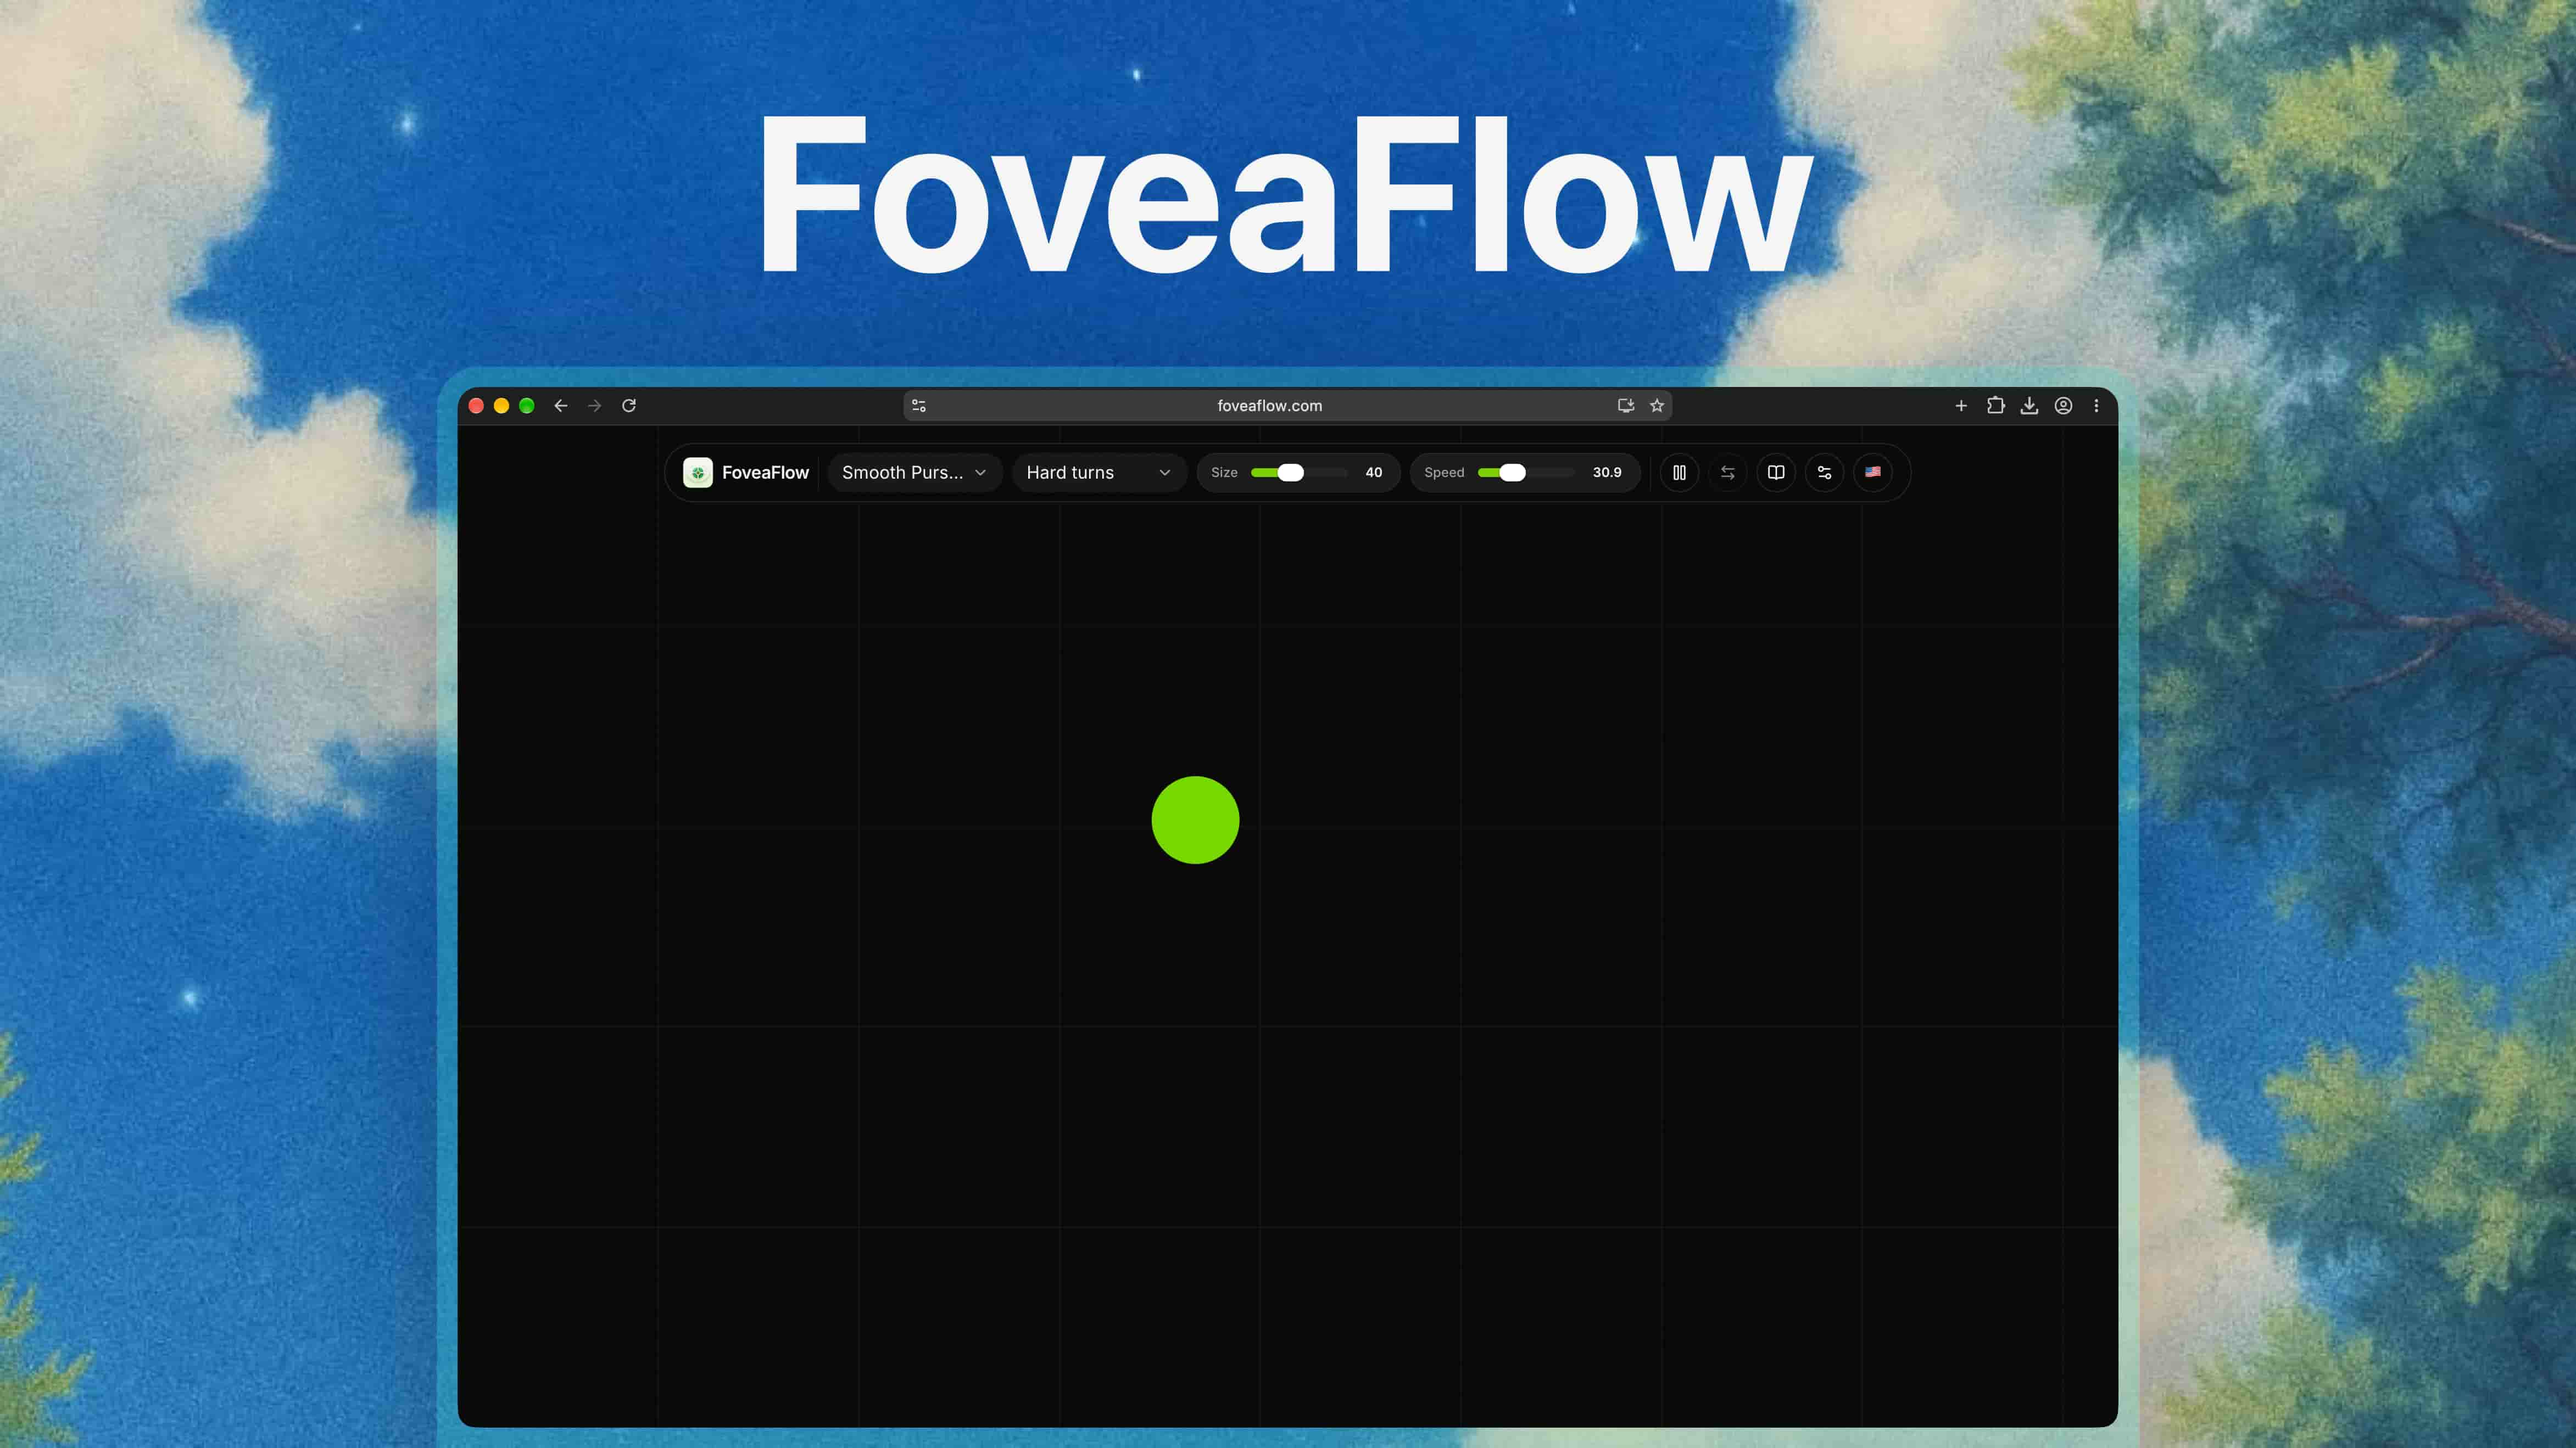
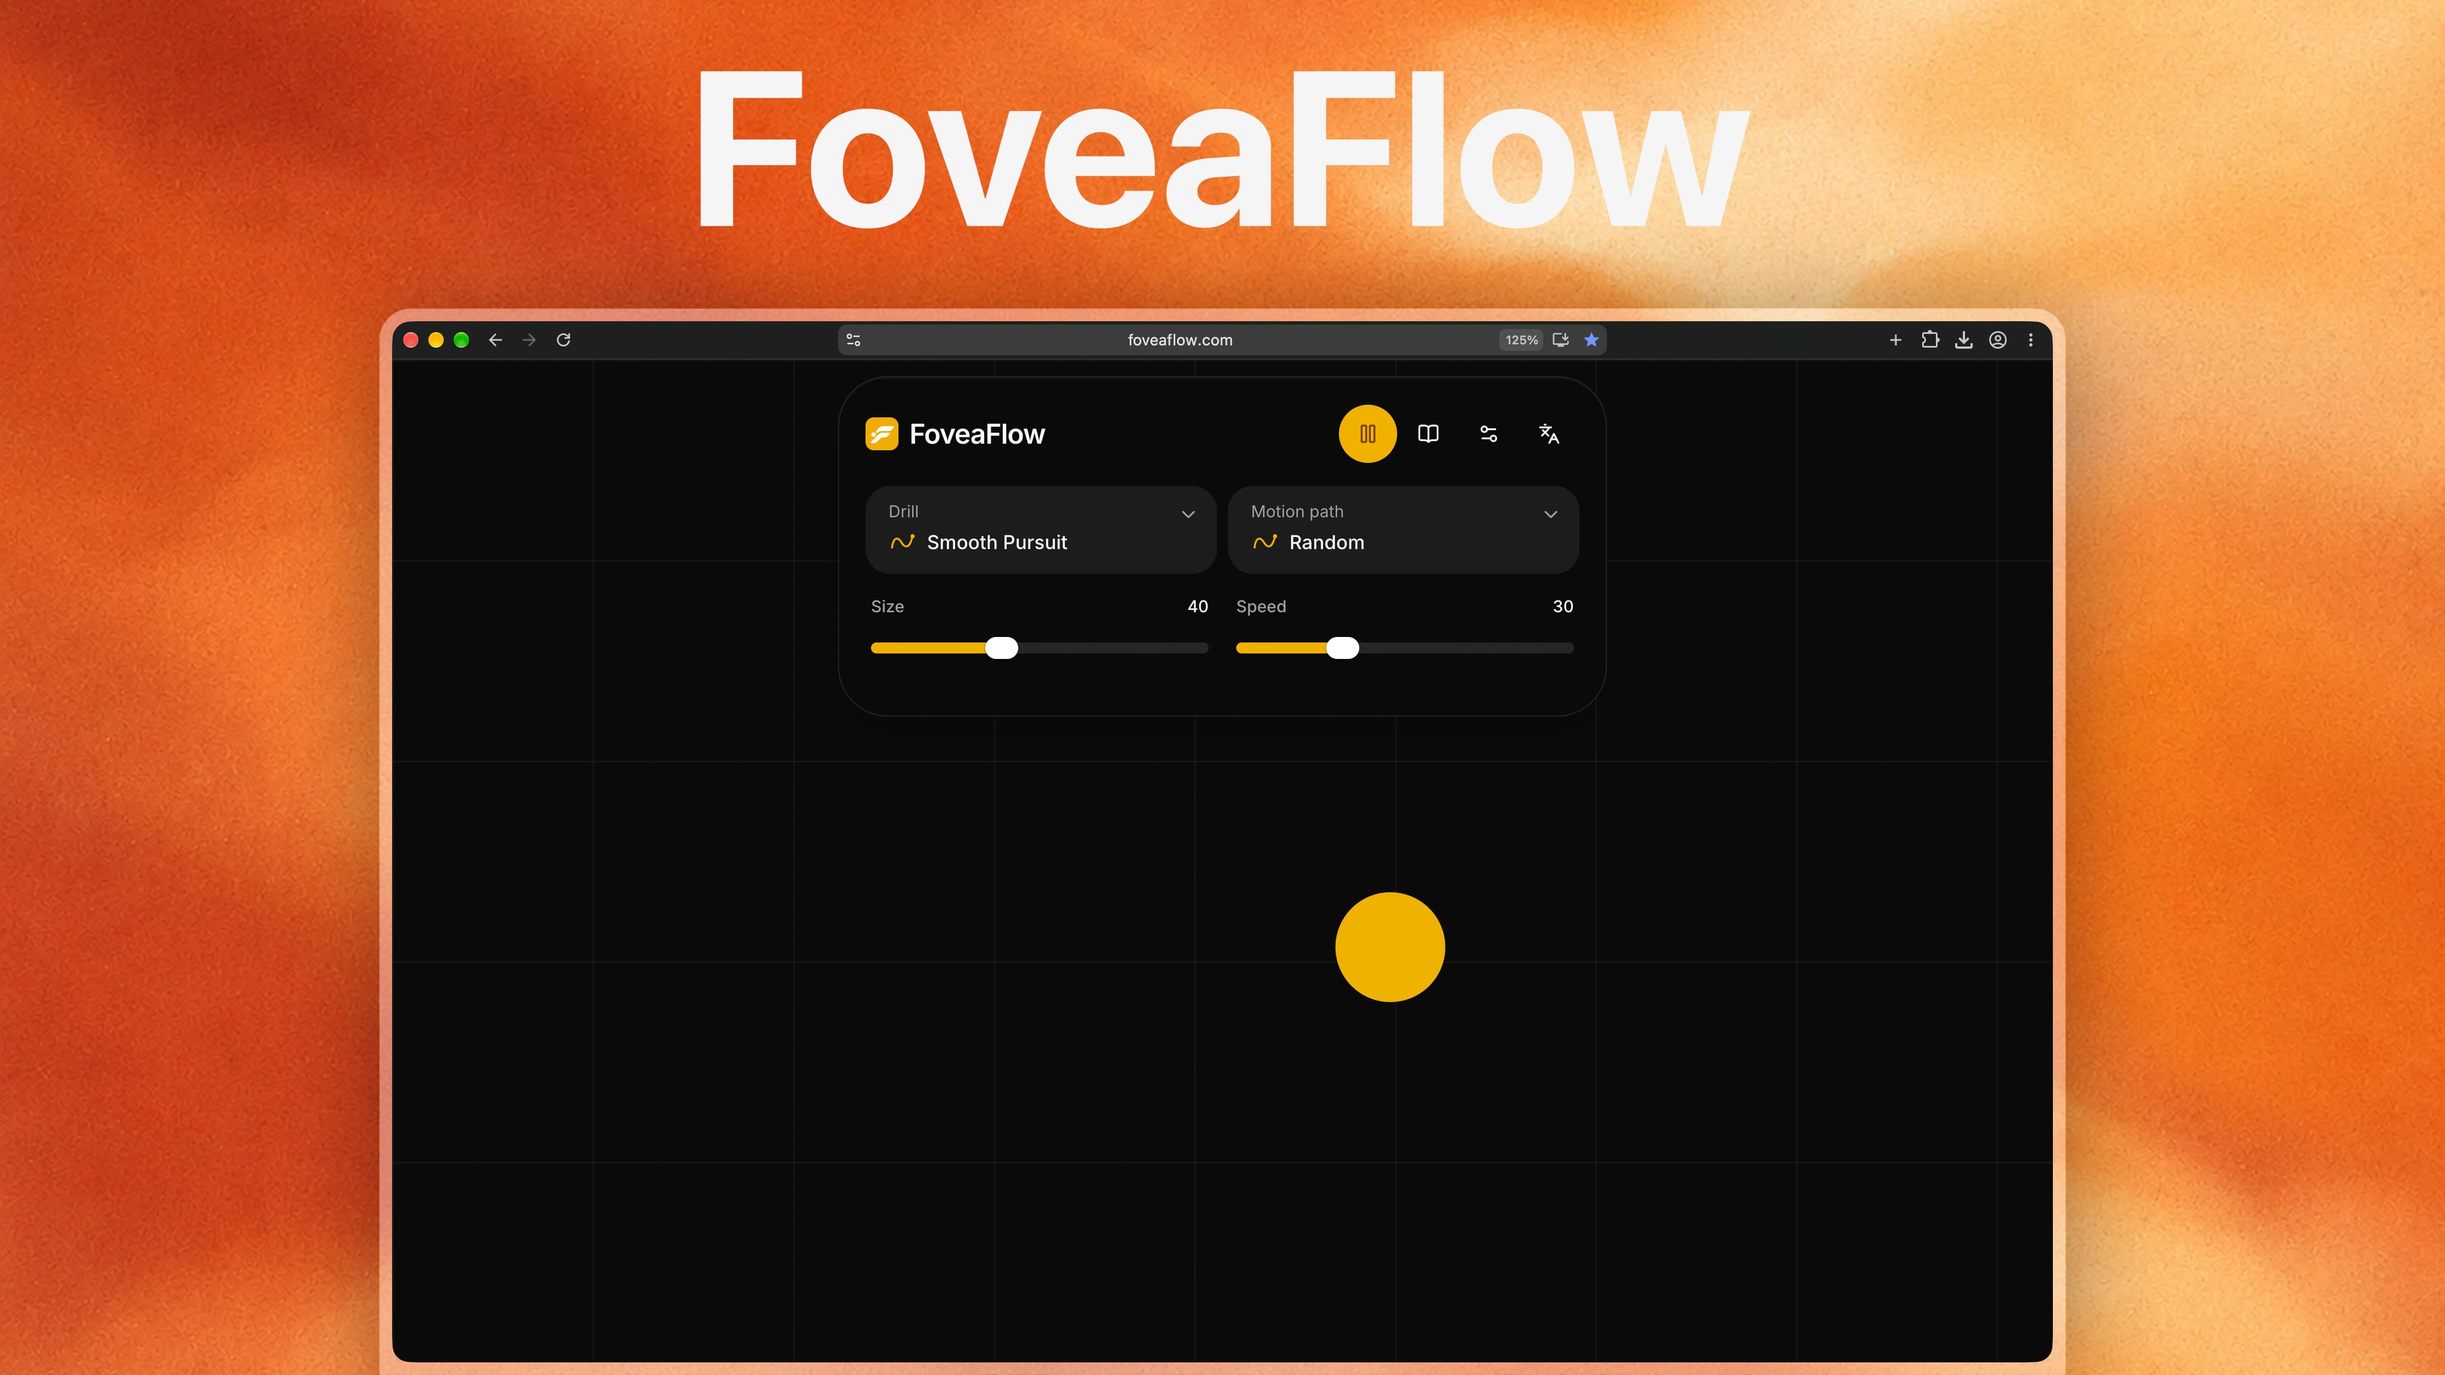
style: use theme fonts and refresh previews

diff --git a/src/styles/global.css b/src/styles/global.css
@@ -5,25 +5,10 @@
 @import "../lib/components/resize-transition.css";
 @import "@fontsource-variable/inter";
 
-@font-face {
-  font-family: "Inter";
-  src: url("../assets/fonts/Inter-latin.woff2") format("woff2");
-  font-weight: 400 800;
-  font-style: normal;
-  font-display: swap;
-  unicode-range:
-    U+0000-00FF, U+0131, U+0152-0153, U+02BB-02BC, U+02C6, U+02DA, U+02DC,
-    U+0304, U+0308, U+0329, U+2000-206F, U+20AC, U+2122, U+2191, U+2193, U+2212,
-    U+2215, U+FEFF, U+FFFD;
-}
-
 @custom-variant dark (&:is(.dark *));
 
 @theme inline {
   --font-sans: "Inter Variable", sans-serif;
-  --font-mono:
-    ui-monospace, "SFMono-Regular", "Roboto Mono", Menlo, Monaco,
-    "Liberation Mono", "DejaVu Sans Mono", "Courier New", monospace;
   --color-background: var(--background);
   --color-foreground: var(--foreground);
   --color-border: var(--border);
@@ -69,7 +54,7 @@
 
 html,
 body {
-  @apply bg-background text-foreground m-0 min-h-full min-w-full font-sans antialiased [text-rendering:optimizeLegibility];
+  @apply bg-background text-foreground m-0 min-h-full min-w-full;
 }
 
 body {
@@ -78,18 +63,6 @@ body {
 
 button {
   @apply [-webkit-tap-highlight-color:transparent];
-}
-
-button,
-input,
-optgroup,
-select,
-textarea {
-  @apply [font:inherit];
-}
-
-:where([data-slot], [role="listbox"], [role="option"], [role="combobox"]) {
-  @apply font-sans;
 }
 
 :root {

diff --git a/src/lib/trainer/canvas-runtime.ts b/src/lib/trainer/canvas-runtime.ts
@@ -90,6 +90,7 @@ export const createTrainerCanvasRuntime = ({
   const frameSampler = createTrainerFrameSampler();
   let canvasTheme: CanvasTheme | null = null;
   let canvasScale = 1;
+  let fontFamily = "";
   let lastLilacChaserHiddenIndex = -1;
   let lastFrameWasLilacChaser = false;
   let lastFrameUsedTrail = false;
@@ -338,7 +339,8 @@ export const createTrainerCanvasRuntime = ({
       frameSample.frames,
       frameSample.count,
       state.settings,
-      frameSample.letterContext
+      frameSample.letterContext,
+      fontFamily
     );
     storeDirtyBounds(frameSample, state.settings);
     if (showTrail) {
@@ -533,6 +535,9 @@ export const createTrainerCanvasRuntime = ({
   };
 
   const redrawForTheme = (colorMode: CanvasColorMode) => {
+    if (canvas) {
+      ({ fontFamily } = getComputedStyle(canvas));
+    }
     pendingColorMode = colorMode;
     drawFrame({ clearTrail: true });
   };
@@ -583,6 +588,7 @@ export const createTrainerCanvasRuntime = ({
   const attachCanvas = (node: HTMLCanvasElement) => {
     detachCanvas();
     canvas = node;
+    ({ fontFamily } = getComputedStyle(node));
     context = node.getContext("2d", { alpha: true });
     if (!context) {
       return () => detachCanvas(node);

diff --git a/src/lib/trainer/rendering.ts b/src/lib/trainer/rendering.ts
@@ -183,7 +183,8 @@ const drawLetterGlyph = (
   settings: Pick<
     TrainerSettings,
     "letterColor" | "letterWeight" | "letterScale" | "targetForm"
-  >
+  >,
+  fontFamily: string
 ) => {
   const fontSize = getLetterFontSize(
     frame.radiusPx,
@@ -191,7 +192,7 @@ const drawLetterGlyph = (
     settings.letterScale
   );
   ctx.fillStyle = settings.letterColor;
-  const font = `${settings.letterWeight} ${fontSize}px Inter, Arial, sans-serif`;
+  const font = `${settings.letterWeight} ${fontSize}px ${fontFamily}`;
   if (ctx.font !== font) {
     ctx.font = font;
   }
@@ -272,7 +273,8 @@ export const drawTargetFrames = (
   frames: TargetFrame[],
   count: number,
   settings: TrainerSettings,
-  letterContext: LetterContext
+  letterContext: LetterContext,
+  fontFamily: string
 ) => {
   const { letterEnabled, targetOpacity, targetForm } = settings;
   if (letterEnabled) {
@@ -296,7 +298,8 @@ export const drawTargetFrames = (
         ctx,
         getFrameLetter(settings, index, letterContext),
         frame,
-        settings
+        settings,
+        fontFamily
       );
     } else if (alpha !== 1) {
       ctx.globalAlpha = 1;

diff --git a/src/lib/components/trainer/trainer-guide-popover.svelte b/src/lib/components/trainer/trainer-guide-popover.svelte
@@ -111,7 +111,7 @@
   <div class="guide-enter flex items-start gap-4 [--guide-enter-y:-0.25rem]">
     <div class="grid min-w-0 gap-2 pr-12">
       <p
-        class="text-brand-foreground text-[0.7rem] leading-4 font-semibold tracking-wide uppercase"
+        class="text-brand-foreground text-[0.7rem] leading-4 font-semibold uppercase"
       >
         {t(locale, homepageSeoContent.kicker)}
       </p>
@@ -132,13 +132,13 @@
 {#snippet routeContent()}
   <div class="guide-enter grid min-w-0 gap-2 pr-12 [--guide-enter-y:-0.25rem]">
     <p
-      class="text-brand-foreground text-[0.7rem] leading-4 font-semibold tracking-wide uppercase"
+      class="text-brand-foreground text-[0.7rem] leading-4 font-semibold uppercase"
     >
       {t(locale, guideSeoContent.kicker)}
     </p>
     <h2
       id="trainer-guide-popover-title"
-      class="max-w-[28ch] text-2xl leading-[1.04] font-semibold tracking-tight text-balance sm:text-3xl lg:text-[2.125rem]"
+      class="max-w-[28ch] text-2xl leading-[1.04] font-semibold text-balance sm:text-3xl lg:text-[2.125rem]"
     >
       {t(locale, guideSeoContent.heading)}
     </h2>

diff --git a/src/lib/components/trainer/trainer-hud.svelte b/src/lib/components/trainer/trainer-hud.svelte
@@ -254,7 +254,7 @@
       >
         <a
           href="/"
-          class="focus-visible:ring-foreground flex h-11 shrink-0 items-center justify-center gap-2 rounded-xl text-base font-semibold tracking-tight outline-hidden focus-visible:ring-3 min-[400px]:justify-start min-[480px]:text-xl"
+          class="focus-visible:ring-foreground flex h-11 shrink-0 items-center justify-center gap-2 rounded-xl text-base font-semibold outline-hidden focus-visible:ring-3 min-[400px]:justify-start min-[480px]:text-xl"
           aria-label={t(locale, `${siteMetadata.name} home`)}
         >
           <img

diff --git a/src/lib/components/guide-page.svelte b/src/lib/components/guide-page.svelte
@@ -63,7 +63,7 @@
           {t(locale, "Guide")}
         </Badge>
         <h1
-          class="text-foreground max-w-[13ch] text-4xl leading-none font-semibold tracking-tight md:text-6xl"
+          class="text-foreground max-w-[13ch] text-4xl leading-none font-semibold md:text-6xl"
         >
           {t(locale, guideMetadata.heading)}
         </h1>

diff --git a/src/lib/components/support-page.svelte b/src/lib/components/support-page.svelte
@@ -72,7 +72,7 @@
           {t(locale, page.kicker)}
         </Badge>
         <h1
-          class="text-foreground max-w-[14ch] text-4xl leading-none font-semibold tracking-tight md:text-6xl"
+          class="text-foreground max-w-[14ch] text-4xl leading-none font-semibold md:text-6xl"
         >
           {t(locale, page.heading)}
         </h1>

diff --git a/src/lib/components/legal-page.svelte b/src/lib/components/legal-page.svelte
@@ -69,7 +69,7 @@
           {t(locale, page.label)}
         </Badge>
         <h1
-          class="text-foreground max-w-[12ch] text-4xl leading-none font-semibold tracking-tight md:text-6xl"
+          class="text-foreground max-w-[12ch] text-4xl leading-none font-semibold md:text-6xl"
         >
           {t(locale, page.title)}
         </h1>

diff --git a/src/lib/components/page-styles.ts b/src/lib/components/page-styles.ts
@@ -6,5 +6,4 @@ export const pageSectionGrid =
 
 export const pageSectionIntro = "md:sticky md:top-8 md:self-start";
 
-export const pageSectionTitle =
-  "max-w-72 text-2xl leading-tight font-semibold tracking-tight";
+export const pageSectionTitle = "max-w-72 text-2xl leading-tight font-semibold";

diff --git a/src/lib/components/trainer/trainer-letter-controls.svelte b/src/lib/components/trainer/trainer-letter-controls.svelte
@@ -72,7 +72,6 @@
               fill={settings.letterColor}
               font-size="15"
               font-weight={settings.letterWeight}
-              font-family="Inter, Arial, sans-serif"
             >
               A
             </text>

diff --git a/README.md b/README.md
@@ -1,6 +1,6 @@
 # FoveaFlow - Free Online Eye Trainer
 
-[![FoveaFlow eye trainer with a green tracking target against a blue sky background](docs/images/preview.jpg)](https://foveaflow.com/)
+[![FoveaFlow eye trainer with a yellow tracking target and floating controls against an orange background](docs/images/preview.jpg)](https://foveaflow.com/)
 
 [![Astro](https://img.shields.io/badge/Astro-7-ff5d01?logo=astro&logoColor=white)](https://astro.build/) [![Svelte](https://img.shields.io/badge/Svelte-5-ff3e00?logo=svelte&logoColor=white)](https://svelte.dev/) [![TypeScript](https://img.shields.io/badge/TypeScript-6.0.3-3178c6?logo=typescript&logoColor=white)](https://www.typescriptlang.org/) [![Bun](https://img.shields.io/badge/Bun-ready-000000?logo=bun&logoColor=white)](https://bun.sh/) [![Tailwind CSS](https://img.shields.io/badge/Tailwind_CSS-4.3.2-38bdf8?logo=tailwindcss&logoColor=white)](https://tailwindcss.com/) [![License: MIT](https://img.shields.io/badge/License-MIT-green.svg)](LICENSE)
 
